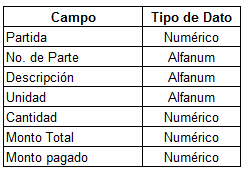
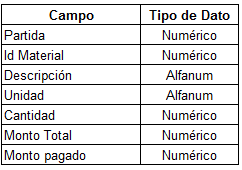
Se queda pendiente
Se queda pendiente para mandar pull de otra rama (ERP-1381)

diff --git a/resources/js/components/almacenes/ajuste-inventario/ajuste-positivo/CargaLayout.vue b/resources/js/components/almacenes/ajuste-inventario/ajuste-positivo/CargaLayout.vue
@@ -1,0 +1,158 @@
+<template>
+    <span>
+        <button type="button" class="btn btn-primary" @click="load"><i class="fa fa-upload"></i> Cargar Layout</button>
+        <div class="modal fade" ref="modal" role="dialog" aria-hidden="true">
+            <div class="modal-dialog modal-dialog-centered modal-lg" role="document">
+                <div class="modal-content">
+                    <div class="modal-header">
+                        <h5 class="modal-title" id="exampleModalLongTitle"><i class="fa fa-upload"></i> &nbsp; AGREGAR NUEVO LOTE CON LAYOUT</h5>
+                        <button type="button" class="close" data-dismiss="modal" aria-label="Close">
+                            <span aria-hidden="true">&times;</span>
+                        </button>
+                    </div>
+                    <div class="col-md-12 info-box-content">
+                                    <label class="col-lg-12 col-form-label">Considera el siguiente orden de columnas para cargar tu archivo CSV.
+                                        &nbsp
+                                        </label>
+                                </div>
+                                <br>
+                    <div class="row">
+                                            <div class="col-md-12">
+                                                <div class="text-center">
+                                                                <img src="../../../../../img/ajuste-inventario/lote-nuevo.png" class="rounded" alt="Formato de carga de CSV">
+                                                      </div>                                                
+                                            </div>
+                                        </div>
+                    <form role="form" @submit.prevent="validate">
+
+                        <div class="modal-body">
+                            <div class="row justify-content-between">
+                                <div class="col-md-8">
+                                     <label for="carga_layout" class="col-lg-12 col-form-label">Cargar Layout</label>
+                                    <div class="col-lg-12">
+                                        <input type="file" class="form-control" id="carga_layout"
+                                               accept=".csv"
+                                               @change="onFileChange"
+                                               row="3"
+                                               v-validate="{ ext: ['csv']}"
+                                               name="carga_layout"
+                                               data-vv-as="Layout"
+                                               ref="carga_layout"
+                                               :class="{'is-invalid': errors.has('carga_layout')}">
+                                        <div class="invalid-feedback" v-show="errors.has('carga_layout')">{{ errors.first('carga_layout') }} (csv)</div>
+                                    </div>
+                                </div>
+                            </div>
+                        </div>
+
+                        <div class="modal-footer">
+                            <button type="button" class="btn btn-secondary" @click="cerrarModal">Cerrar</button>
+                            <button type="button" class="btn btn-primary" @click="validate" :disabled="!file">Cargar</button>
+                        </div>
+                    </form>
+                </div>
+            </div>
+        </div>
+
+    </span>
+</template>
+
+<script>
+    export default {
+        name: "carga-layout",
+        data() {
+            return {
+                cargando: false,
+                data: null,
+                file: null,
+            }
+        },
+        mounted(){
+        },
+        methods:{
+            validate() {
+                this.$validator.validate().then(result => {
+                    if (result){
+                        this.cargarLayout()
+                    }else{
+                        if(this.$refs.carga_layout.value !== ''){
+                            this.$refs.carga_layout.value = '';
+                            this.file = null;
+                        }
+                        this.$validator.errors.clear();
+                        swal('¡Error!', 'Error archivos de entrada invalidos.', 'error')
+                    }
+                });
+            },
+            load() {
+                this.$refs.carga_layout.value = '';
+                this.file = null;
+                this.data = null;
+                this.$validator.errors.clear();
+
+                $(this.$refs.modal).modal('show');
+            },
+            cerrarModal(event) {
+                this.$refs.carga_layout.value = '';
+                this.file = null;
+                this.$validator.errors.clear();
+                $(this.$refs.modal).modal('hide')
+            },
+            cargarLayout(){
+                var formData = new FormData();
+                formData.append('file',  this.file);
+                return this.$store.dispatch('almacenes/nuevo-lote/cargaLayout',
+                    {
+                        data: formData,
+                        config: {
+                            params: { _method: 'POST'}
+                        }
+                    })
+                    .then(data => {
+                        this.data = data;
+                        this.$emit('input', this.data);
+                        this.$emit('change');
+                        this.$emit('created', data);
+                    }).finally(() => {
+                        this.$refs.carga_layout.value = '';
+                        this.file = null;
+                        this.file_name = '';
+                        this.$validator.errors.clear();
+                        setTimeout(() => {
+                            $(this.$refs.modal).modal('hide');
+                        }, 100);
+                    })
+
+            },
+            createImage(file, tipo) {
+                var reader = new FileReader();
+                var vm = this;
+
+                reader.onload = (e) => {
+                    vm.file = e.target.result;
+                };
+                reader.readAsDataURL(file);
+
+            },
+
+            onFileChange(e){
+                this.file = null;
+                var files = e.target.files || e.dataTransfer.files;
+                if (!files.length)
+                    return;
+                if(e.target.id == 'carga_layout') {
+                    this.createImage(files[0]);
+                }
+            },
+        }
+    }
+</script>
+
+<style>
+    .error-label {
+        width: 100%;
+        margin-top: 0.25rem;
+        font-size: 80%;
+        color: #dc3545;
+    }
+</style>

diff --git a/resources/js/components/almacenes/ajuste-inventario/ajuste-positivo/Create.vue b/resources/js/components/almacenes/ajuste-inventario/ajuste-positivo/Create.vue
@@ -5,6 +5,15 @@
                 <div class="invoice p-3 mb-3">
                      <form role="form" @submit.prevent="validate">
                          <div class="modal-body">
+                              <div class="d-flex flex-row-reverse">
+                                    <div class="p-3">
+                                        <button  type="button" v-if="id_almacen" class="btn btn-info" @click="lista">
+                                                <i class="fa fa-list-ul "></i>
+                                                 Lista de Materiales</button>
+                                        &nbsp;
+                                        <Layout @created="getMateriales()" v-if="id_almacen" v-model="items"></Layout>
+                                    </div>
+                                </div>
                              <div class="row" v-if="id_almacen">
                                 <div class="col-12">
                                     <div class="invoice p-3 mb-3">
@@ -14,6 +23,7 @@
                                                     <thead>
                                                     <tr>
                                                         <th class="bg-gray-light index_corto">#</th>
+                                                        <th class="bg-gray-light" style="width:120px;">No. de Parte</th>
                                                         <th class="bg-gray-light">Item</th>
                                                         <th class="bg-gray-light th_unidad">Unidad</th>
                                                         <th class="bg-gray-light th_money_input">Cantidad Ingresada</th>
@@ -30,6 +40,7 @@
                                                     <tbody>
                                                     <tr v-for="(item, i) in items">
                                                         <td>{{ i + 1}}</td>
+                                                        <td> #00000</td>
                                                         <td>
                                                             <model-list-select
                                                                     :name="`id_material[${i}]`"
@@ -118,9 +129,10 @@
 
 <script>
     import {ModelListSelect} from 'vue-search-select';
+    import Layout from './CargaLayout'
     export default {
         name: "ajuste-positivo-create",
-        components:{ModelListSelect},
+        components:{ModelListSelect, Layout},
         propos:['id_almacen', 'referencia','fecha'],
 
         data() {
@@ -208,6 +220,16 @@
 
                     })
             },*/
+            lista()
+            {
+                 this.cargando = true;
+                return this.$store.dispatch('cadeco/material/lista_materiales', {scope: 'requisicion'})
+                    .then(() => {
+                        this.$emit('success')
+                    }).finally(() => {
+                        this.cargando = false;
+                    })
+            },
             agregar() {
                 var array = {
                     'material' : '',
